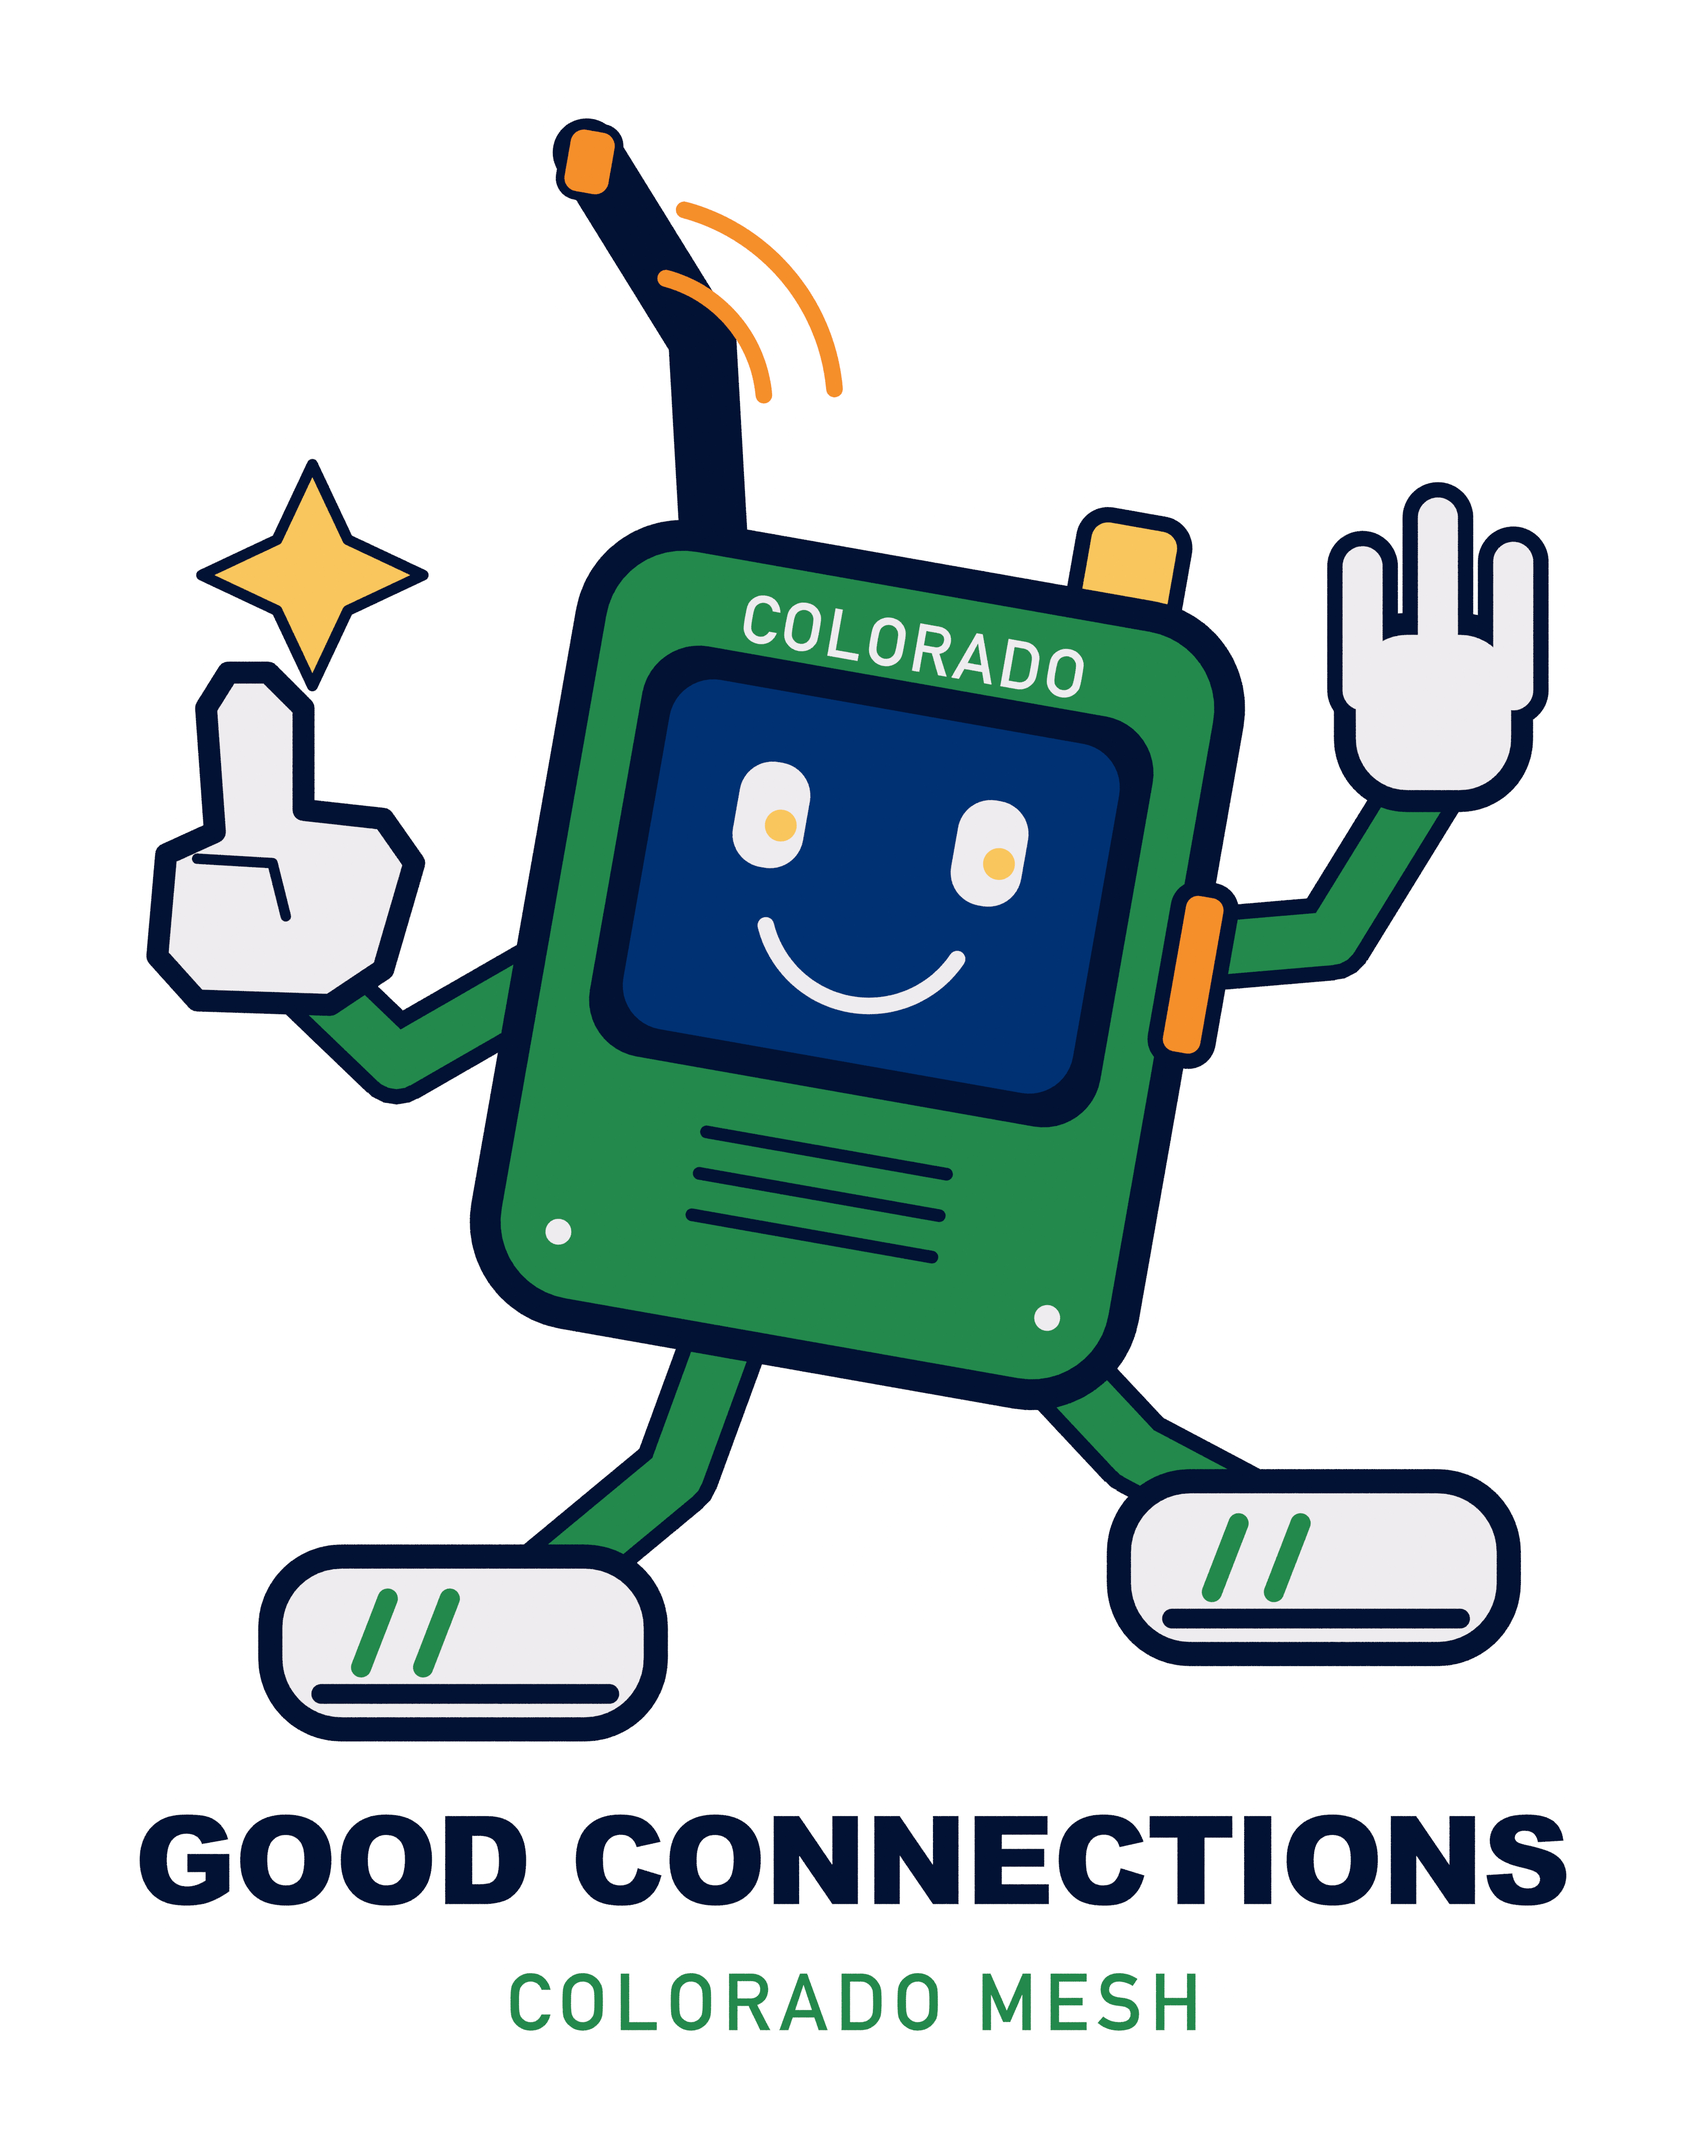
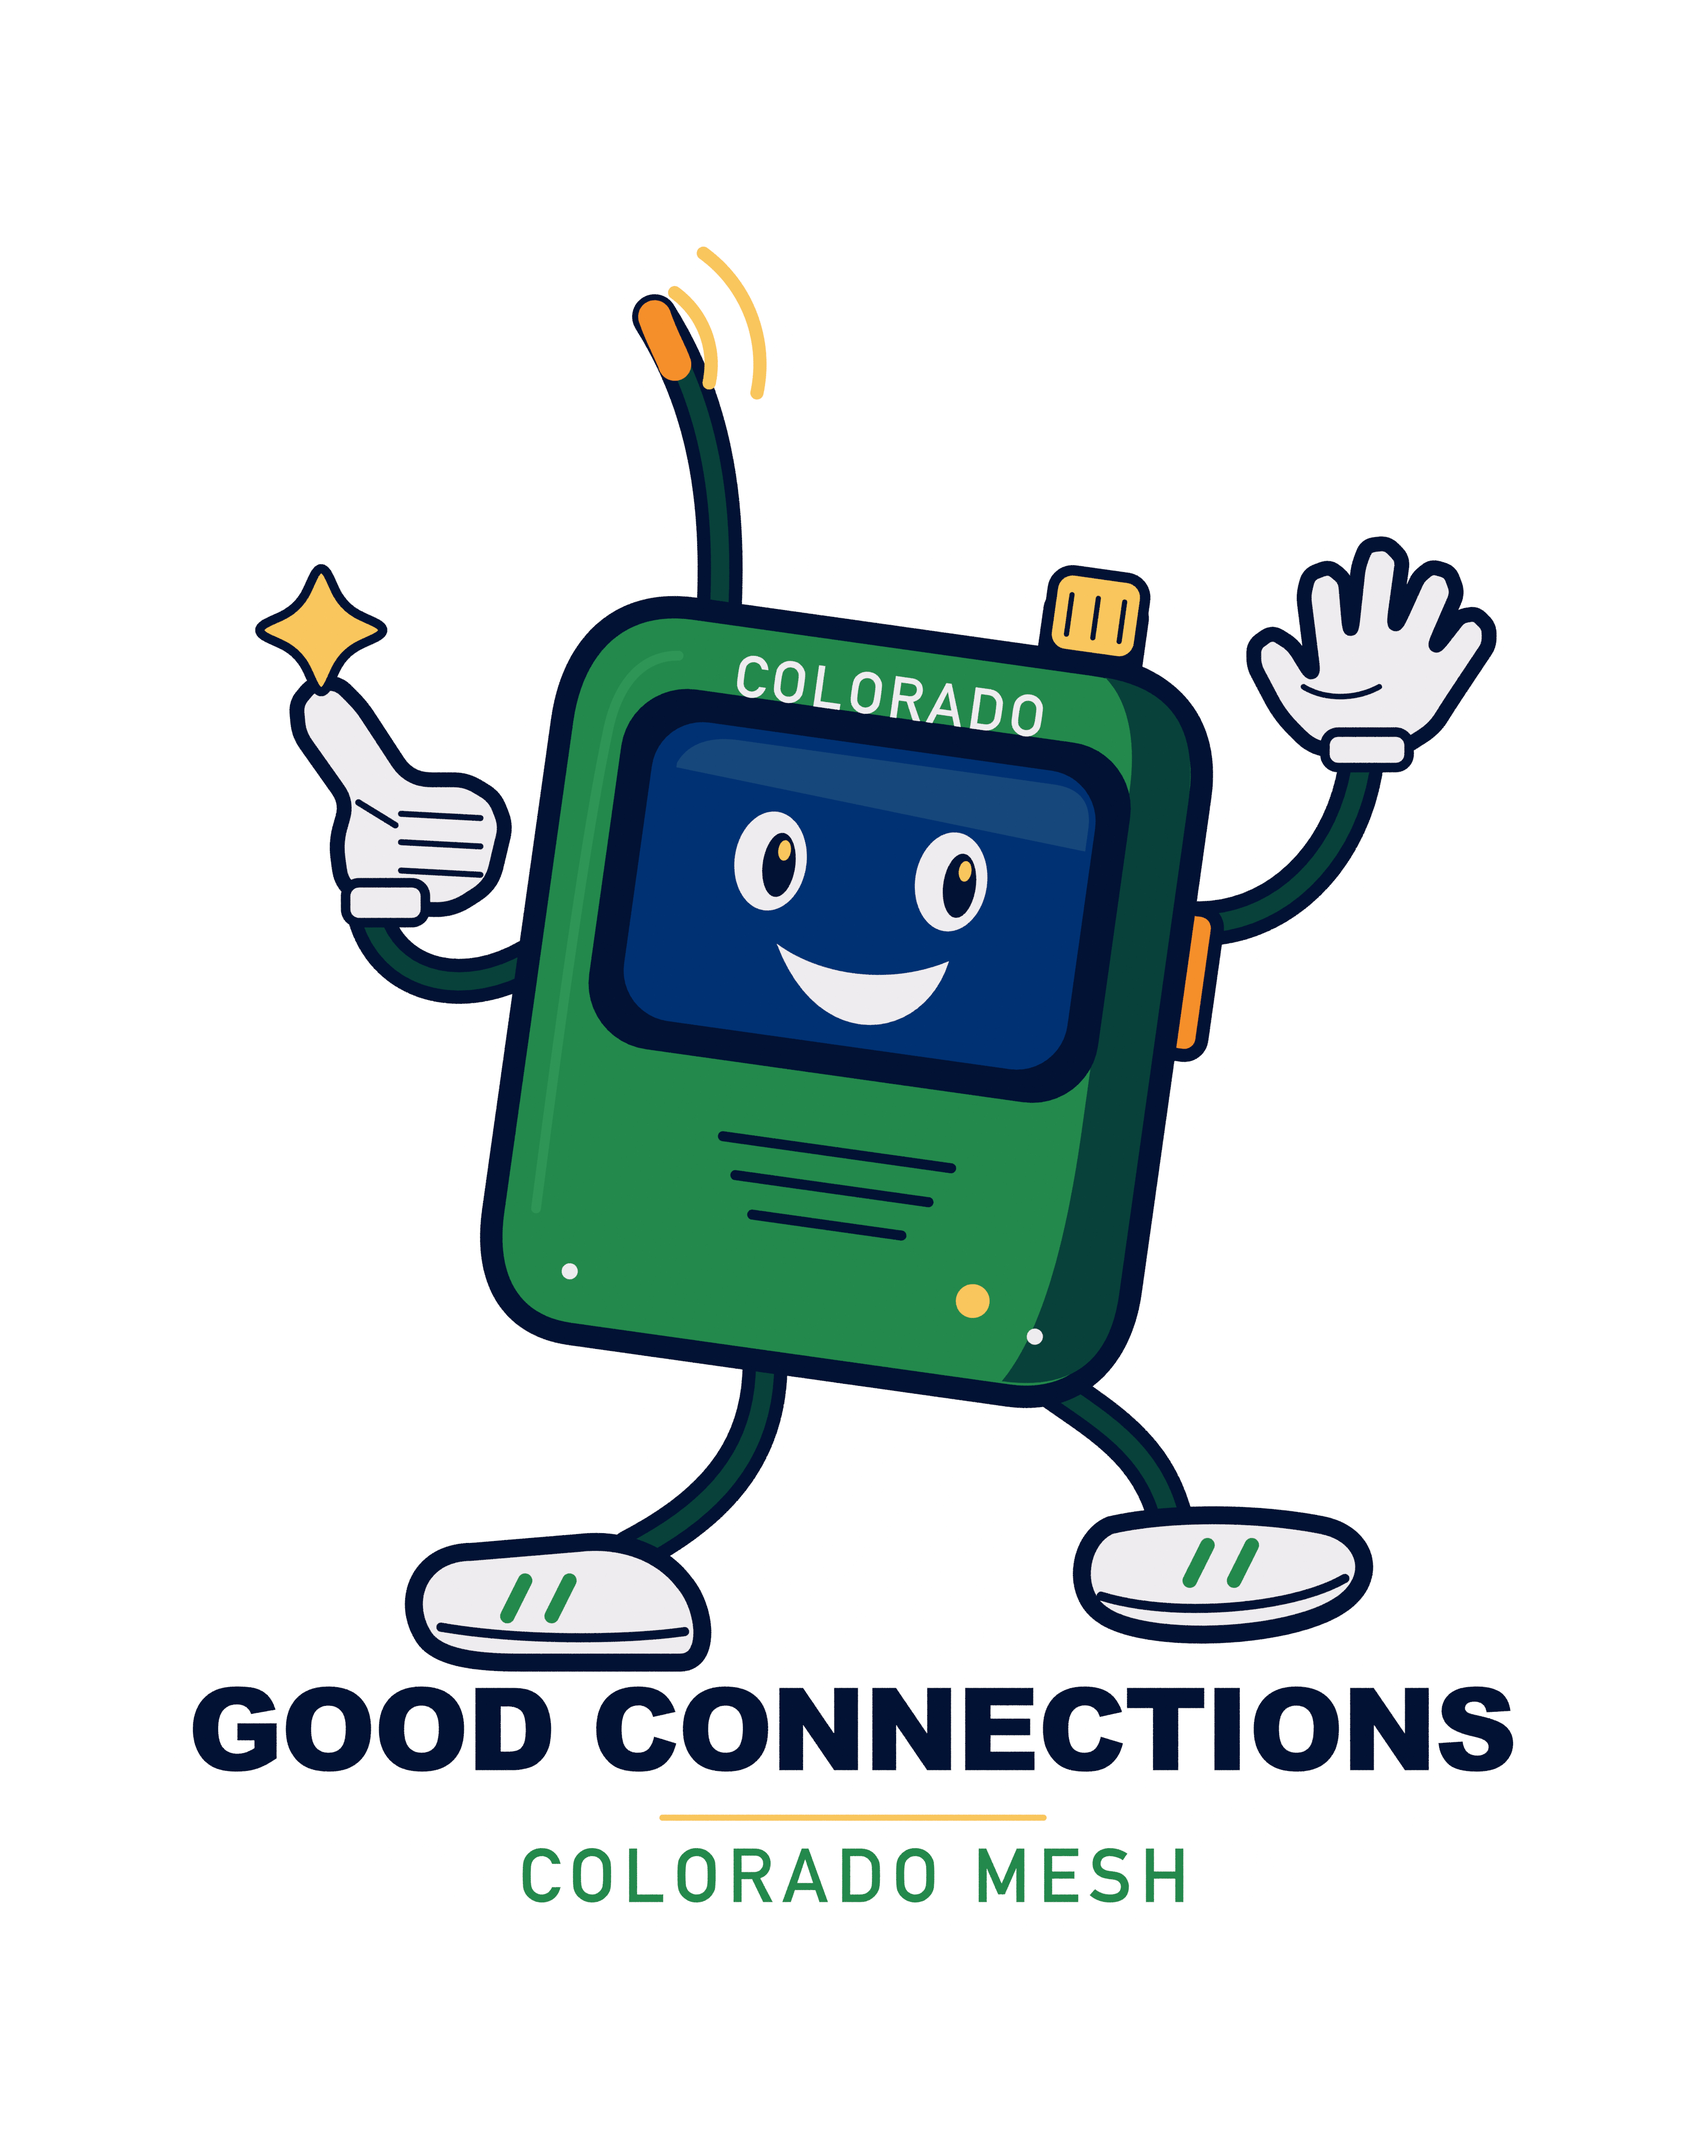
Refine Good Connections radio sticker

Changed region(s): [[0.0623, 0.0312, 0.9351, 0.9659]]

diff --git a/stickers/signal-club/README.md b/stickers/signal-club/README.md
@@ -6,9 +6,11 @@ Three high-resolution PNGs for sticker production. Download the original PNG fil
 | --- | --- | --- |
 | [MESH Supply](01-mesh-supply.png) | 4,140 × 2,520 px | 4.29 × 2.35 in |
 | [Alpine Frequency](02-alpine-frequency.png) | 3,240 × 3,240 px | 3.34 × 3.34 in |
-| [Good Connections](03-good-connections.png) | 3,465 × 4,365 px | 3.40 × 4.50 in |
+| [Good Connections](03-good-connections.png) | 3,465 × 4,365 px | 3.11 × 3.87 in |
 
 All three files are **transparent RGBA PNGs at 900 ppi**, with the white sticker border included. Transparency is outside the sticker silhouette. The PNG canvases include a small transparent margin; the sizes above describe the sticker silhouette. Scale uniformly if choosing a different finished size.
+
+Good Connections features smaller gloves, curved limbs, an outside-thumb thumbs-up, and an open wave.
 
 ![MESH Supply](01-mesh-supply.png)
 
